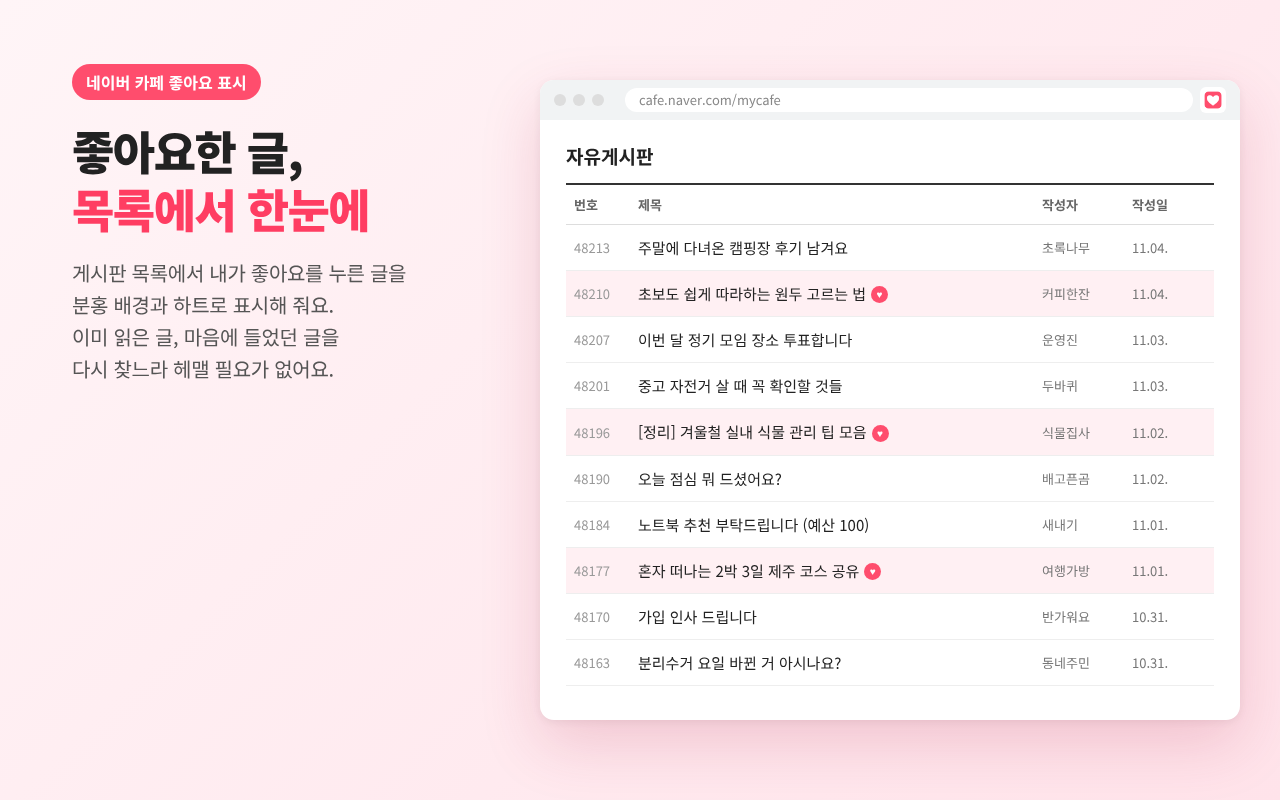
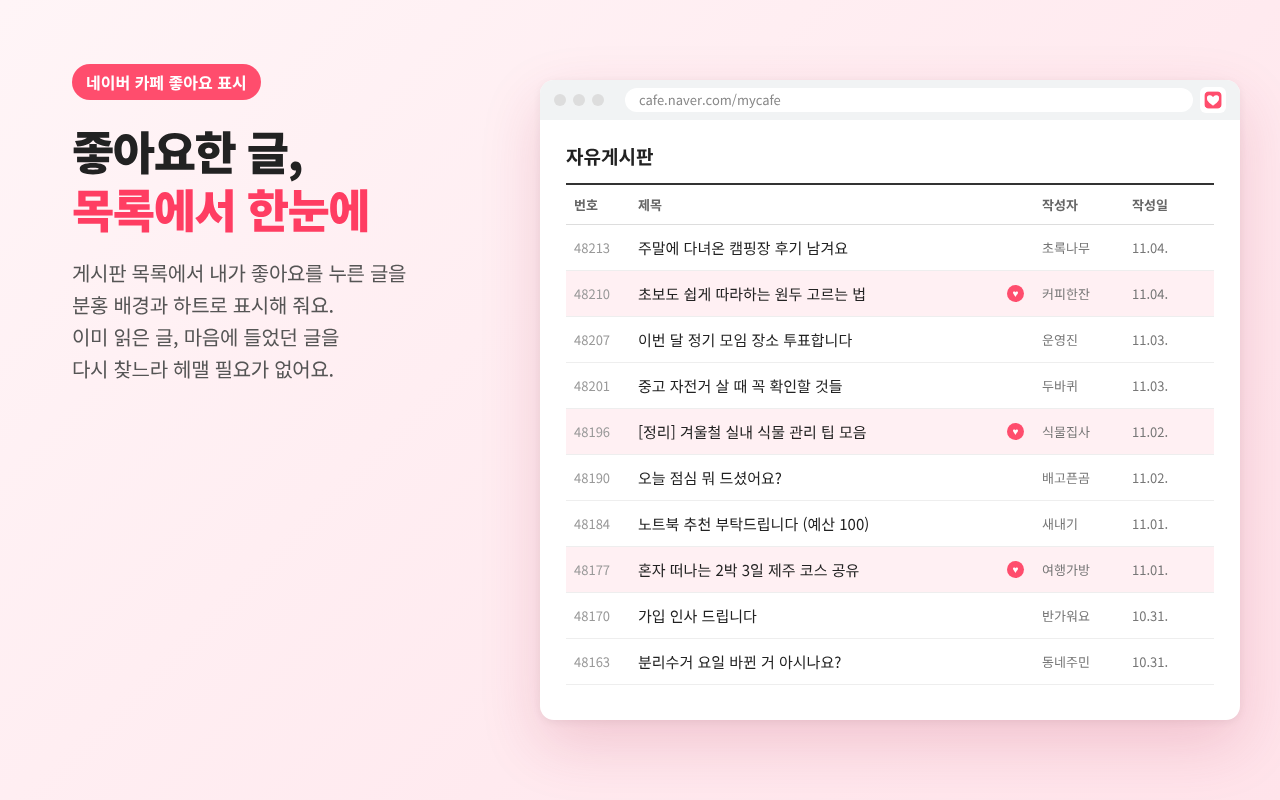
v1.4.4: 하트를 줄 오른쪽 끝에 띄워 줄바꿈 원천 차단
- 하트를 제목 뒤에 끼우지 않고 줄 오른쪽 끝에 띄움(position:absolute)
  → 제목 길이와 상관없이 줄바꿈·줄 높이 변화 없음
- 테이블 목록은 날짜 칸과 겹치지 않도록 제목 칸 오른쪽 끝에 표시
- 스토어 스크린샷을 새 하트 위치에 맞춤

Claude-Session: https://claude.ai/code/session_018ih16usEF2kqeph62Xi418

diff --git a/tools/store.html b/tools/store.html
@@ -24,7 +24,8 @@ td{padding:12px 8px;border-bottom:1px solid #eee;white-space:nowrap}
 td.no{color:#999;width:64px;font-size:13px}
 td.au,td.dt{color:#777;font-size:13px;width:90px}
 tr.liked td{background:#fff0f3}
-.badge{display:inline-block;margin-left:5px;width:17px;height:17px;border-radius:50%;background:#ff4d6d;color:#fff;font:bold 10px/17px Arial,sans-serif;text-align:center;vertical-align:middle;position:relative;top:-1px}
+.badge{position:absolute;right:10px;top:50%;margin-top:-8.5px;width:17px;height:17px;border-radius:50%;background:#ff4d6d;color:#fff;font:bold 10px/17px Arial,sans-serif;text-align:center;box-shadow:0 0 0 2px #fff0f3}
+td{position:relative}
 .popup{position:absolute;width:250px;background:#fff;border-radius:10px;box-shadow:0 12px 36px rgba(0,0,0,.18);padding:16px;font-size:14px}
 .popup h3{font-size:15px;margin:0 0 10px}
 .popup label{display:flex;align-items:center;gap:8px;padding:8px;border-radius:6px}
@@ -121,7 +122,7 @@ tr.liked td{background:#fff0f3}
 <div class="canvas s" id="shot3">
   <div class="center"><h1>세 가지 <em>표시 방식</em></h1><p>눈에 잘 띄는 정도를 취향대로 정하세요</p></div>
   <div class="cols">
-    <div class="col"><h4><span class="sw" style="width:34px;height:18px"></span> 배경만</h4><table><tr><th>제목</th></tr><tr><td>캠핑장 후기 남겨요</td></tr><tr class="liked"><td>원두 고르는 법</td></tr><tr><td>정기 모임 장소 투표</td></tr><tr><td>중고 자전거 체크리스트</td></tr><tr class="liked"><td>실내 식물 관리 팁</td></tr><tr><td>오늘 점심 뭐 드셨어요?</td></tr><tr class="liked"><td>2박 3일 제주 코스</td></tr><tr><td>가입 인사 드립니다</td></tr></table></div><div class="col"><h4><span class="sw" style="width:34px;height:18px"></span><span class="badge" style="margin-left:0">♥</span> 배경 + 하트</h4><table><tr><th>제목</th></tr><tr><td>캠핑장 후기 남겨요</td></tr><tr class="liked"><td>원두 고르는 법<span class="badge">♥</span></td></tr><tr><td>정기 모임 장소 투표</td></tr><tr><td>중고 자전거 체크리스트</td></tr><tr class="liked"><td>실내 식물 관리 팁<span class="badge">♥</span></td></tr><tr><td>오늘 점심 뭐 드셨어요?</td></tr><tr class="liked"><td>2박 3일 제주 코스<span class="badge">♥</span></td></tr><tr><td>가입 인사 드립니다</td></tr></table></div><div class="col"><h4><span class="badge" style="margin-left:0">♥</span> 하트만</h4><table><tr><th>제목</th></tr><tr><td>캠핑장 후기 남겨요</td></tr><tr><td>원두 고르는 법<span class="badge">♥</span></td></tr><tr><td>정기 모임 장소 투표</td></tr><tr><td>중고 자전거 체크리스트</td></tr><tr><td>실내 식물 관리 팁<span class="badge">♥</span></td></tr><tr><td>오늘 점심 뭐 드셨어요?</td></tr><tr><td>2박 3일 제주 코스<span class="badge">♥</span></td></tr><tr><td>가입 인사 드립니다</td></tr></table></div>
+    <div class="col"><h4><span class="sw" style="width:34px;height:18px"></span> 배경만</h4><table><tr><th>제목</th></tr><tr><td>캠핑장 후기 남겨요</td></tr><tr class="liked"><td>원두 고르는 법</td></tr><tr><td>정기 모임 장소 투표</td></tr><tr><td>중고 자전거 체크리스트</td></tr><tr class="liked"><td>실내 식물 관리 팁</td></tr><tr><td>오늘 점심 뭐 드셨어요?</td></tr><tr class="liked"><td>2박 3일 제주 코스</td></tr><tr><td>가입 인사 드립니다</td></tr></table></div><div class="col"><h4><span class="sw" style="width:34px;height:18px"></span><span class="ht">♥</span> 배경 + 하트</h4><table><tr><th>제목</th></tr><tr><td>캠핑장 후기 남겨요</td></tr><tr class="liked"><td>원두 고르는 법<span class="badge">♥</span></td></tr><tr><td>정기 모임 장소 투표</td></tr><tr><td>중고 자전거 체크리스트</td></tr><tr class="liked"><td>실내 식물 관리 팁<span class="badge">♥</span></td></tr><tr><td>오늘 점심 뭐 드셨어요?</td></tr><tr class="liked"><td>2박 3일 제주 코스<span class="badge">♥</span></td></tr><tr><td>가입 인사 드립니다</td></tr></table></div><div class="col"><h4><span class="ht">♥</span> 하트만</h4><table><tr><th>제목</th></tr><tr><td>캠핑장 후기 남겨요</td></tr><tr><td>원두 고르는 법<span class="badge">♥</span></td></tr><tr><td>정기 모임 장소 투표</td></tr><tr><td>중고 자전거 체크리스트</td></tr><tr><td>실내 식물 관리 팁<span class="badge">♥</span></td></tr><tr><td>오늘 점심 뭐 드셨어요?</td></tr><tr><td>2박 3일 제주 코스<span class="badge">♥</span></td></tr><tr><td>가입 인사 드립니다</td></tr></table></div>
   </div>
 </div>
 

diff --git a/extension/content.js b/extension/content.js
@@ -299,26 +299,36 @@
       });
     }
 
-    // 하트 (줄마다 1개, 제목 끝)
-    // 새 요소를 끼워 넣지 않고 제목 링크에 클래스만 붙여 CSS(::after)로 그림
-    // → 카페 화면의 레이아웃(flex, 고정 너비 등)과 화면 갱신 코드를 건드리지 않음
-    const wanted = new Set();
-    if (showHeart) likedRows.forEach((title) => wanted.add(title));
-    document.querySelectorAll(".ncl-heart").forEach((el) => {
-      if (!wanted.has(el)) el.classList.remove("ncl-heart", "ncl-heart-front");
-      else wanted.delete(el);
+    // 하트 (줄마다 1개, 줄 오른쪽 끝)
+    // 글자 흐름 밖(position:absolute)에 띄워서, 제목 길이와 상관없이 줄바꿈이 생기지 않음
+    // 테이블 목록은 줄 맨 끝이 날짜 칸이라 제목 칸의 오른쪽 끝에 붙임
+    const anchors = new Set();
+    if (showHeart) {
+      likedRows.forEach((title, row) => {
+        const anchor = (row.tagName === "TR" && title.closest("td")) || row;
+        anchors.add(anchor);
+      });
+    }
+    document.querySelectorAll(".ncl-heart-dot").forEach((dot) => {
+      if (!anchors.has(dot.parentElement)) dot.remove();
+      else anchors.delete(dot.parentElement);
     });
-    wanted.forEach((title) => {
-      const before = title.getBoundingClientRect().height;
-      title.classList.add("ncl-heart");
-      // 하트 때문에 제목이 다음 줄로 넘어가거나(줄바꿈),
-      // 말줄임(…)으로 잘려 하트가 안 보이면 제목 앞에 붙임
-      const wrapped = title.getBoundingClientRect().height > before + 8; // 한 줄 이상 늘어났을 때만
-      const clipped = title.scrollWidth > title.clientWidth + 1;
-      if (wrapped || clipped) title.classList.add("ncl-heart-front");
+    document.querySelectorAll(".ncl-pos").forEach((el) => {
+      if (!el.querySelector(":scope > .ncl-heart-dot")) el.classList.remove("ncl-pos");
     });
-    // 예전 버전이 끼워 넣은 하트 요소 정리
+    anchors.forEach((anchor) => {
+      // 이미 위치 지정(relative/absolute 등)이 된 요소는 그대로 두고, 아니면 기준점으로 만듦
+      if (getComputedStyle(anchor).position === "static") anchor.classList.add("ncl-pos");
+      const dot = document.createElement("span");
+      dot.className = "ncl-heart-dot";
+      dot.textContent = "\u2665";
+      dot.setAttribute("aria-hidden", "true");
+      anchor.appendChild(dot);
+    });
+
+    // 예전 버전의 하트 정리
     document.querySelectorAll(".ncl-badge").forEach((b) => b.remove());
+    document.querySelectorAll(".ncl-heart").forEach((el) => el.classList.remove("ncl-heart", "ncl-heart-front"));
   }
 
   // 배경을 칠할 "한 줄" 찾기

diff --git a/extension/style.css b/extension/style.css
@@ -4,36 +4,44 @@
   background-color: #fff0f3 !important;
 }
 
-/* 좋아요한 글 하트 (제목 끝, 카페의 N 아이콘처럼 작은 동그라미)
-   - 카페 화면의 글꼴·줄 높이 설정을 물려받지 않도록 전부 직접 지정
-   - 줄 높이보다 작게 만들어 목록 줄 높이가 늘어나지 않게 함 */
-.ncl-heart:not(.ncl-heart-front)::after,
-.ncl-heart-front::before {
-  content: "\2665";
-  display: inline-block;
+/* 하트를 띄울 기준점 (원래 위치 지정이 없던 줄에만 붙음) */
+.ncl-pos {
+  position: relative !important;
+}
+
+/* 좋아요한 글 하트: 줄 오른쪽 끝에 떠 있음
+   - 글자 흐름 밖이라 제목이 길어도 줄바꿈·줄 높이 변화가 없음
+   - 카페 화면의 글꼴·여백 설정을 물려받지 않도록 전부 직접 지정 */
+.ncl-heart-dot {
+  position: absolute !important;
+  top: 50% !important;
+  right: 6px !important;
+  left: auto !important;
+  bottom: auto !important;
+  z-index: 2;
+  display: block !important;
   box-sizing: border-box;
   width: 15px;
   height: 15px;
-  margin: 0 0 0 4px;
+  margin: -7.5px 0 0 0 !important;
   padding: 0;
   border: 0;
   border-radius: 50%;
   background: #ff4d6d;
+  box-shadow: 0 0 0 2px #fff;
   color: #fff;
   font: bold 9px/15px Arial, sans-serif;
   letter-spacing: 0;
   text-align: center;
   text-decoration: none;
   text-indent: 0;
-  text-transform: none;
   white-space: nowrap;
-  vertical-align: middle;
-  position: relative;
-  top: -1px;
+  float: none !important;
   pointer-events: none;
 }
 
-/* 줄이 넘어가거나 말줄임된 제목은 하트를 앞에 */
-.ncl-heart-front::before {
-  margin: 0 4px 0 0;
+/* 배경이 칠해진 줄에서는 하트 테두리도 배경색으로 */
+.ncl-liked-row .ncl-heart-dot,
+.ncl-liked-row > td .ncl-heart-dot {
+  box-shadow: 0 0 0 2px #fff0f3;
 }
